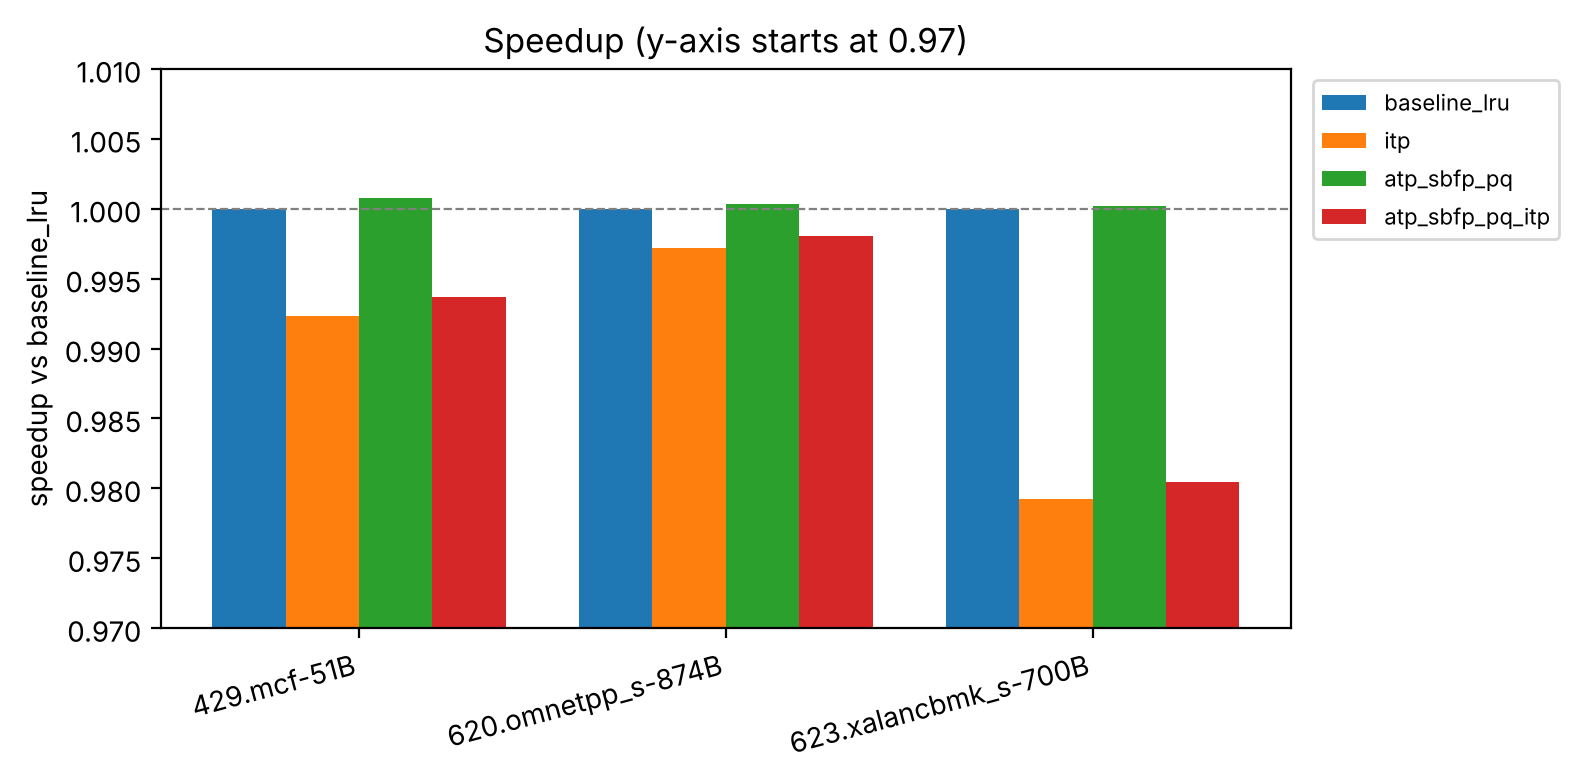
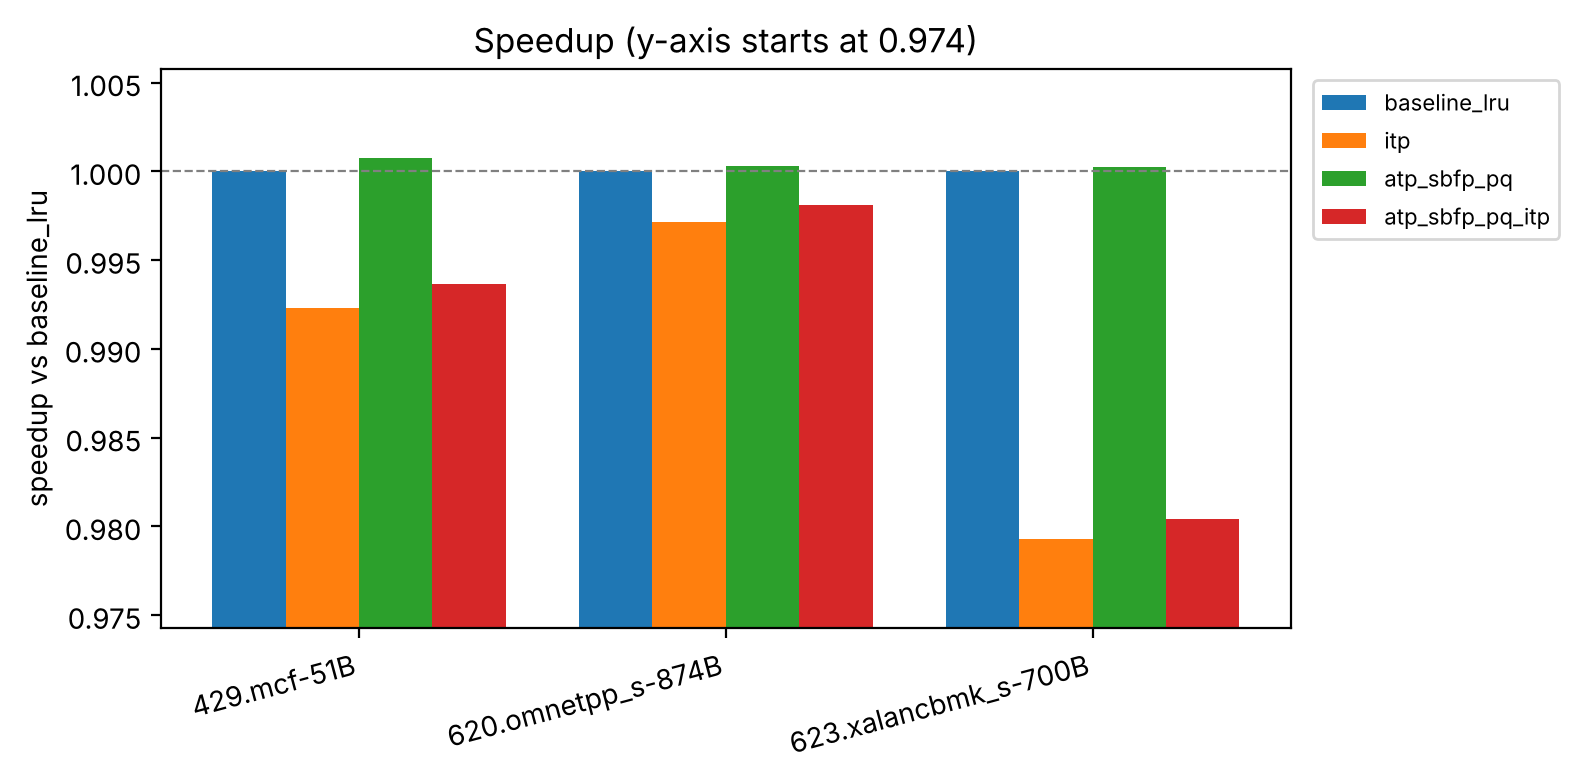
docs: add GAP figures; scale the speedup axis to the data
Claude-Session: https://claude.ai/code/session_01HS8Bm9t4qUbVwnKy3XUZC8

diff --git a/scripts/plot_results.py b/scripts/plot_results.py
@@ -59,7 +59,9 @@ def main():
     out = Path(args.out)
     out.mkdir(parents=True, exist_ok=True)
 
-    grouped_bars(rows, "speedup_vs_lru", "speedup vs baseline_lru", "Speedup (y-axis starts at 0.97)", out / "speedup.png", 1.0, ylim=(0.97, 1.01))
+    sp = [num(r["speedup_vs_lru"]) for r in rows if num(r["speedup_vs_lru"]) is not None]
+    lo, hi = min(min(sp), 1.0) - 0.005, max(max(sp), 1.0) + 0.005   # zoom: differences are a few percent
+    grouped_bars(rows, "speedup_vs_lru", "speedup vs baseline_lru", f"Speedup (y-axis starts at {lo:.3f})", out / "speedup.png", 1.0, ylim=(lo, hi))
     grouped_bars(rows, "stlb_mpki", "STLB MPKI", "STLB misses per kilo-instruction", out / "stlb_mpki.png")
 
     base = {r["trace"]: num(r["page_walks"]) for r in rows if r["config"] == "baseline_lru"}

diff --git a/README.md b/README.md
@@ -291,6 +291,9 @@ The Pareto plot (speedup against estimated translation energy) will be added onc
 | | `atp_sbfp_pq` | 0.2161 | 1.0221 | 19.83 | 317,630 | −15% | 31,591 |
 | | `atp_sbfp_pq_itp` | 0.2162 | 1.0226 | 19.81 | 317,365 | −15% | 28,497 |
 
+![GAP speedup vs baseline_lru](docs/figures/gap/speedup.png)
+![GAP page walks relative to baseline_lru](docs/figures/gap/page_walks.png)
+
 - On `bc.kron-2608B` no policy changes anything measurable.
 - On `bc.twitter-1658B` ATP stays enabled on its own (31,591 prefetch walks) and `atp_sbfp_pq` gives the largest speedup so far (+2.2%) with 15% fewer page walks. This is the first workload where ATP activates without iTP.
 - On `bc.road-131B` the prefetch queue removes 40% of page walks for +0.1% speed. iTP is slightly faster there (+0.3%) even though walks rise by 12%; we have not explained this and it is a small effect on one short window.
